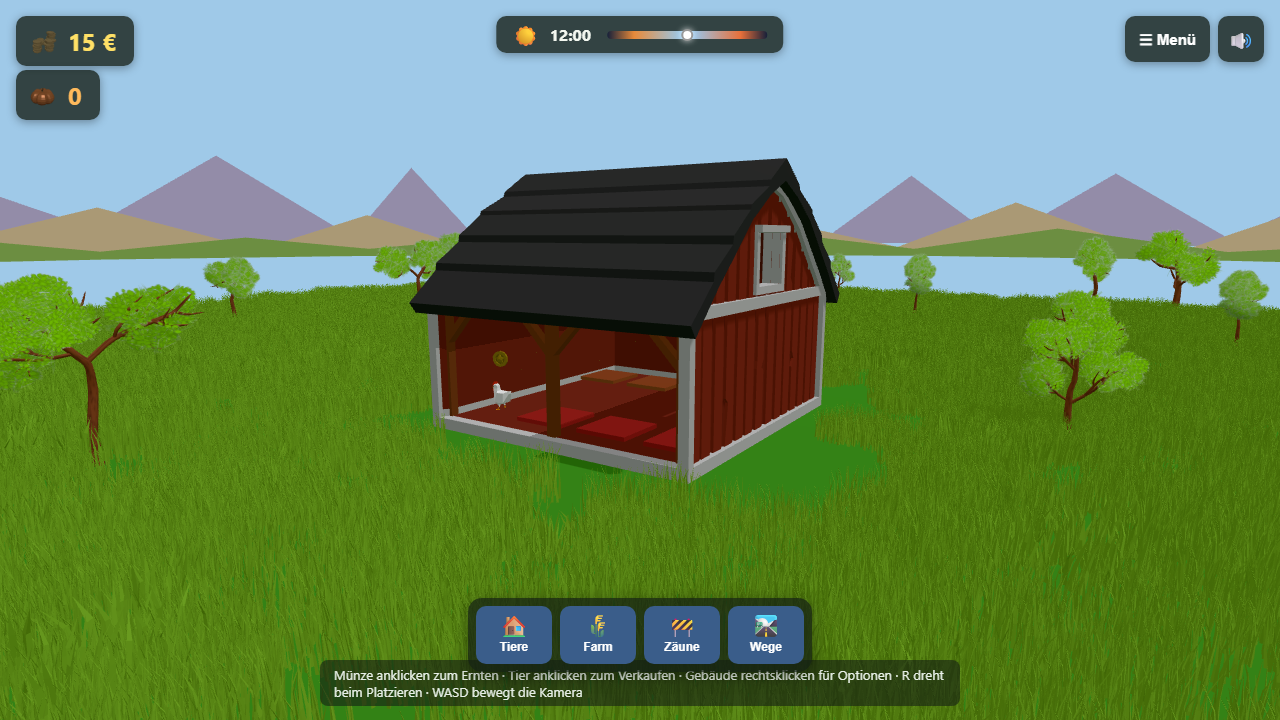
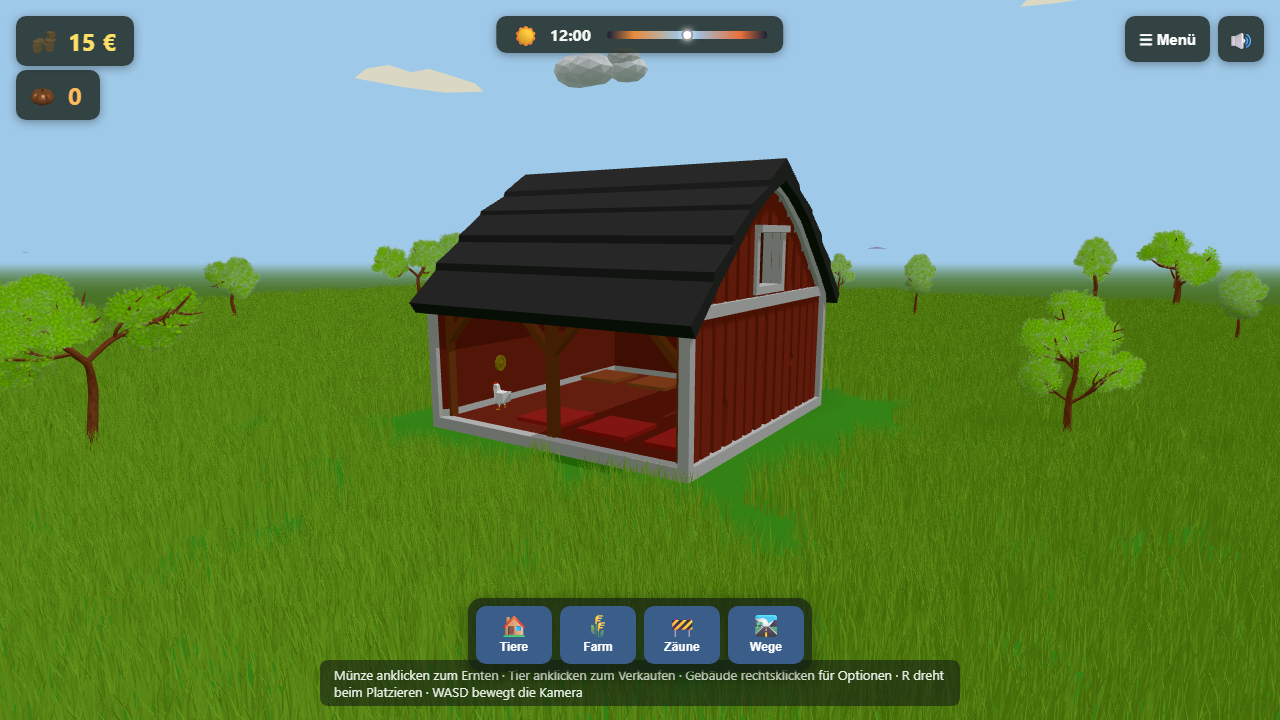
feat: update Ground and SkyManager for enhanced backdrop and cloud rendering

diff --git a/src/scene/Sky.ts b/src/scene/Sky.ts
@@ -18,7 +18,8 @@ const DAY_FRACTION = 2 / 3;
 const MAX_ELEVATION = 60;
 const SKY_RADIUS = 1400;
 const SKYBOX_URL = "/skybox/farm-lowpoly/panorama.png";
-const HORIZON_RADIUS = 230;
+const HORIZON_RADIUS = 360;
+const SKY_CLOUD_RADIUS = 470;
 
 const FOG_DAY = new THREE.Color(0x9fc9e8);
 const FOG_NIGHT = new THREE.Color(0x0b1626);
@@ -46,6 +47,8 @@ export class SkyManager {
   private readonly skyMat: THREE.MeshBasicMaterial;
   private readonly sky: THREE.Mesh;
   private readonly horizon: THREE.Group;
+  private readonly skyClouds: THREE.Group;
+  private readonly skyCloudMats: THREE.MeshBasicMaterial[];
   private readonly stars: THREE.Points;
   private readonly starMat: THREE.PointsMaterial;
   private readonly sunVec = new THREE.Vector3();
@@ -73,6 +76,11 @@ export class SkyManager {
     this.horizon = makeDistantHorizon(HORIZON_RADIUS);
     scene.add(this.horizon);
 
+    const clouds = makeSkyboxClouds(SKY_CLOUD_RADIUS);
+    this.skyClouds = clouds.group;
+    this.skyCloudMats = clouds.materials;
+    scene.add(this.skyClouds);
+
     this.starMat = new THREE.PointsMaterial({
       color: 0xfdfdff,
       size: 2.6,
@@ -90,6 +98,7 @@ export class SkyManager {
     this.sky.onBeforeRender = (_renderer, _scene, camera) => {
       this.sky.position.copy(camera.position);
       this.stars.position.copy(camera.position);
+      this.skyClouds.position.copy(camera.position);
       this.horizon.position.set(camera.position.x, 0, camera.position.z);
     };
 
@@ -170,6 +179,14 @@ export class SkyManager {
     this.skyTint.lerp(SKY_TINT_DUSK, this.dusk * 0.22);
     this.skyTint.lerp(SKY_TINT_OVERCAST, this.overcast * 0.45);
     this.skyMat.color.copy(this.skyTint);
+    this.horizon.visible = this.daylight > 0.05 || this.dusk > 0.15;
+    this.skyClouds.visible = this.horizon.visible;
+    for (const mat of this.skyCloudMats) {
+      mat.color.copy(SKY_TINT_NIGHT).lerp(new THREE.Color(0xfff1d2), this.daylight);
+      mat.color.lerp(SKY_TINT_DUSK, this.dusk * 0.18);
+      mat.color.lerp(SKY_TINT_OVERCAST, this.overcast * 0.35);
+      mat.opacity = THREE.MathUtils.lerp(0.2, 0.82, this.daylight) * (1 - this.overcast * 0.25);
+    }
   }
 }
 
@@ -177,33 +194,94 @@ function makeDistantHorizon(radius: number): THREE.Group {
   const group = new THREE.Group();
   group.renderOrder = -900;
 
-  const mountainBack = new THREE.MeshBasicMaterial({ color: 0xa8a1bd, fog: false, side: THREE.DoubleSide });
-  const mountainFront = new THREE.MeshBasicMaterial({ color: 0xbfae8b, fog: false, side: THREE.DoubleSide });
-  const hillMat = new THREE.MeshBasicMaterial({ color: 0x82a35d, fog: false, side: THREE.DoubleSide });
-
-  for (let i = 0; i < 28; i++) {
-    const a = (i / 28) * Math.PI * 2;
-    const width = THREE.MathUtils.degToRad(10 + ((i * 17) % 9));
-    const height = 15 + ((i * 11) % 10);
-    const base = 2.0 + ((i * 5) % 4) * 0.35;
+  const mountainBack = new THREE.MeshBasicMaterial({
+    color: 0x948daa,
+    depthWrite: false,
+    fog: false,
+    opacity: 0.78,
+    side: THREE.DoubleSide,
+    transparent: true,
+  });
+  const mountainFront = new THREE.MeshBasicMaterial({
+    color: 0xa99470,
+    depthWrite: false,
+    fog: false,
+    opacity: 0.72,
+    side: THREE.DoubleSide,
+    transparent: true,
+  });
+  for (let i = 0; i < 24; i++) {
+    const a = (i / 24) * Math.PI * 2;
+    const width = THREE.MathUtils.degToRad(8 + ((i * 17) % 7));
+    const height = 5.2 + ((i * 11) % 5) * 0.7;
+    const base = -7.8 + ((i * 5) % 4) * 0.2;
     group.add(makeHorizonTriangle(radius, a, width, base, height, mountainBack, -8));
   }
 
-  for (let i = 0; i < 22; i++) {
-    const a = ((i + 0.35) / 22) * Math.PI * 2;
-    const width = THREE.MathUtils.degToRad(14 + ((i * 13) % 10));
-    const height = 8 + ((i * 7) % 6);
-    group.add(makeHorizonTriangle(radius * 0.93, a, width, 1.0, height, mountainFront, -6));
-  }
-
-  for (let i = 0; i < 18; i++) {
-    const a = ((i + 0.15) / 18) * Math.PI * 2;
-    const width = THREE.MathUtils.degToRad(22 + ((i * 19) % 14));
-    const height = 4.6 + ((i * 3) % 4) * 0.7;
-    group.add(makeHorizonTriangle(radius * 0.84, a, width, 0.3, height, hillMat, -4));
+  for (let i = 0; i < 20; i++) {
+    const a = ((i + 0.35) / 20) * Math.PI * 2;
+    const width = THREE.MathUtils.degToRad(12 + ((i * 13) % 9));
+    const height = 2.6 + ((i * 7) % 5) * 0.4;
+    group.add(makeHorizonTriangle(radius * 0.94, a, width, -5.4, height, mountainFront, -6));
   }
 
   return group;
+}
+
+function makeSkyboxClouds(radius: number): { group: THREE.Group; materials: THREE.MeshBasicMaterial[] } {
+  const group = new THREE.Group();
+  group.renderOrder = -960;
+  const materials: THREE.MeshBasicMaterial[] = [];
+  const specs = [
+    { a: 0.08, y: 68, w: 46, h: 12 },
+    { a: 0.22, y: 112, w: 72, h: 18 },
+    { a: 0.36, y: 82, w: 58, h: 14 },
+    { a: 0.51, y: 128, w: 50, h: 11 },
+    { a: 0.64, y: 92, w: 76, h: 17 },
+    { a: 0.79, y: 118, w: 60, h: 15 },
+    { a: 0.91, y: 72, w: 54, h: 13 },
+  ];
+
+  for (let i = 0; i < specs.length; i++) {
+    const s = specs[i];
+    const mat = new THREE.MeshBasicMaterial({
+      color: 0xfff1d2,
+      depthWrite: false,
+      fog: false,
+      opacity: 0.78,
+      side: THREE.DoubleSide,
+      transparent: true,
+    });
+    materials.push(mat);
+    const cloud = makeLowPolyCloud(s.w, s.h, mat);
+    const angle = s.a * Math.PI * 2;
+    cloud.position.set(Math.sin(angle) * radius, s.y, Math.cos(angle) * radius);
+    cloud.lookAt(0, s.y, 0);
+    cloud.rotateZ((i % 2 === 0 ? -1 : 1) * THREE.MathUtils.degToRad(2 + (i % 3)));
+    cloud.frustumCulled = false;
+    cloud.renderOrder = -960;
+    group.add(cloud);
+  }
+
+  return { group, materials };
+}
+
+function makeLowPolyCloud(width: number, height: number, material: THREE.Material): THREE.Mesh {
+  const hw = width / 2;
+  const hh = height / 2;
+  const points = [
+    new THREE.Vector2(-hw, -hh * 0.2),
+    new THREE.Vector2(-hw * 0.82, hh * 0.55),
+    new THREE.Vector2(-hw * 0.48, hh * 0.95),
+    new THREE.Vector2(-hw * 0.15, hh * 0.62),
+    new THREE.Vector2(hw * 0.12, hh),
+    new THREE.Vector2(hw * 0.48, hh * 0.72),
+    new THREE.Vector2(hw * 0.86, hh * 0.35),
+    new THREE.Vector2(hw, -hh * 0.15),
+    new THREE.Vector2(hw * 0.38, -hh * 0.52),
+    new THREE.Vector2(-hw * 0.28, -hh * 0.45),
+  ];
+  return new THREE.Mesh(new THREE.ShapeGeometry(new THREE.Shape(points)), material);
 }
 
 function makeHorizonTriangle(

diff --git a/src/scene/Ground.ts b/src/scene/Ground.ts
@@ -3,6 +3,9 @@ import { INITIAL_FIELD, type FieldBounds, fieldCenter } from "../game/config/chu
 
 /** Etwas Überstand über die Feldkante hinaus, damit keine Naht durchblitzt. */
 const PAD = 2;
+/** Reiner Sicht-Hintergrund ausserhalb der baubaren Flaeche. */
+const BACKDROP_PAD = 520;
+const BACKDROP_Y = -1.25;
 
 /**
  * Grüne Bodenfläche, die Schatten empfängt und sich an die Spielfeld-Grenzen
@@ -10,13 +13,27 @@ const PAD = 2;
  * zentrierten) Feld neu auf.
  */
 export class Ground {
+  readonly object = new THREE.Group();
   readonly mesh: THREE.Mesh;
+  private readonly backdrop: THREE.Mesh;
 
   constructor() {
     const material = new THREE.MeshStandardMaterial({ color: 0x4f9e3a, roughness: 1 });
     this.mesh = new THREE.Mesh(new THREE.PlaneGeometry(1, 1), material);
     this.mesh.rotation.x = -Math.PI / 2;
     this.mesh.receiveShadow = true;
+
+    const backdropMaterial = new THREE.MeshStandardMaterial({
+      color: 0x668f49,
+      roughness: 1,
+      fog: true,
+    });
+    this.backdrop = new THREE.Mesh(new THREE.PlaneGeometry(1, 1, 8, 8), backdropMaterial);
+    this.backdrop.rotation.x = -Math.PI / 2;
+    this.backdrop.position.y = BACKDROP_Y;
+    this.backdrop.receiveShadow = false;
+
+    this.object.add(this.backdrop, this.mesh);
     this.resize(INITIAL_FIELD);
   }
 
@@ -28,5 +45,10 @@ export class Ground {
     this.mesh.geometry = new THREE.PlaneGeometry(w, d);
     const c = fieldCenter(f);
     this.mesh.position.set(c.x, 0, c.z);
+
+    const backdropSize = Math.max(w, d) + BACKDROP_PAD * 2;
+    this.backdrop.geometry.dispose();
+    this.backdrop.geometry = new THREE.PlaneGeometry(backdropSize, backdropSize, 8, 8);
+    this.backdrop.position.set(c.x, BACKDROP_Y, c.z);
   }
 }

diff --git a/src/main.ts b/src/main.ts
@@ -36,7 +36,7 @@ async function init(): Promise<void> {
   // --- Persistentes Rig: bleibt über alle Spielstände hinweg bestehen ---
   const sceneManager = new SceneManager(canvas);
   const ground = new Ground();
-  sceneManager.scene.add(ground.mesh);
+  sceneManager.scene.add(ground.object);
 
   // Dynamischer Himmel + Tag/Nacht-Zyklus (steuert die Szenen-Lichter)
   const sky = new SkyManager(